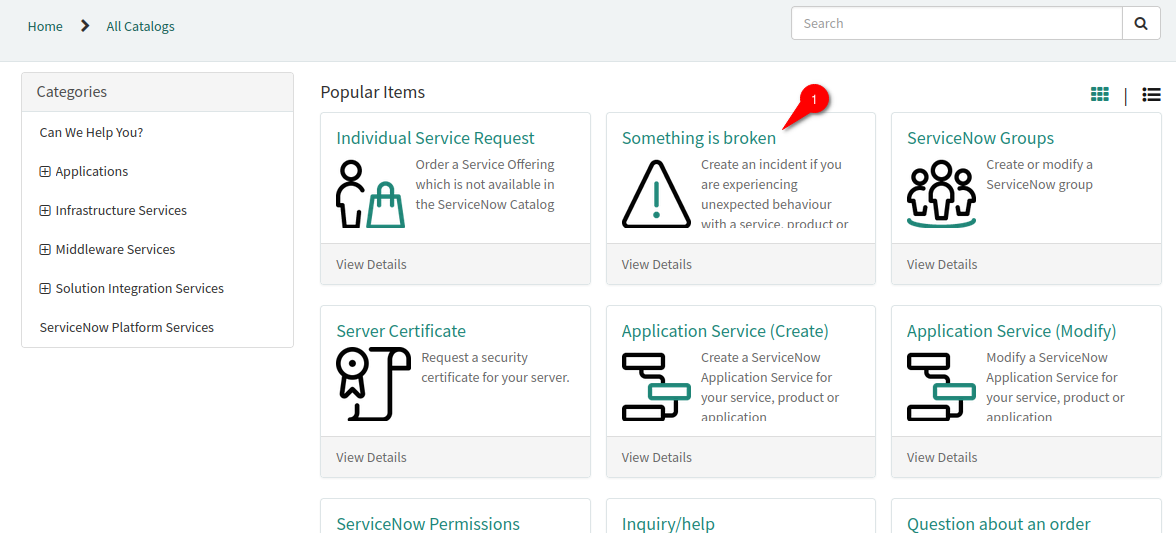
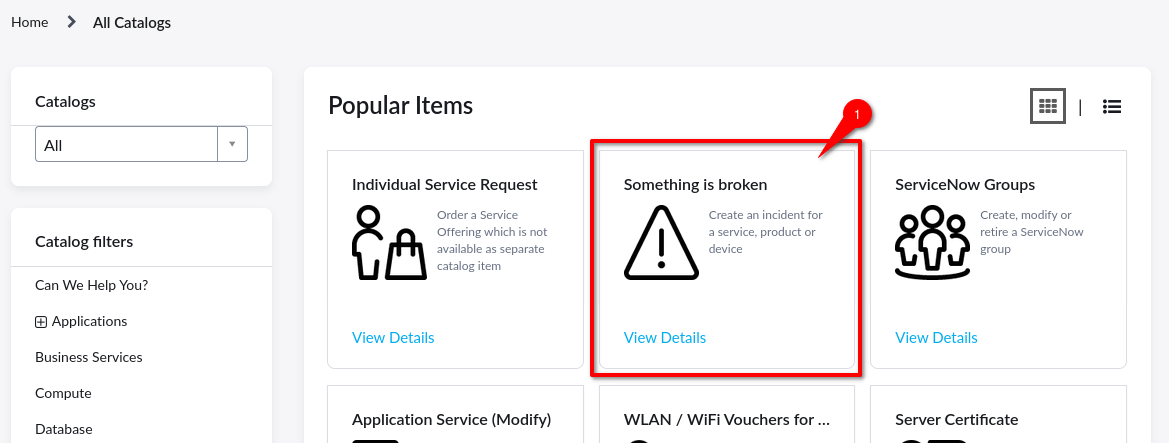
update incident instructions

diff --git a/pages/incident.md b/pages/incident.md
@@ -11,11 +11,7 @@ Having incident tickets is important as this is one of the main measures for the
 
 ## How to create
 
-Please open [Daimler Service Now - Service Portal https://daimler.service-now.com/sp](https://daimler.service-now.com/sp)
-
-### Go to **"Request Something"**
-
-![Service Portal](images/servicenow/snow_incident_01.png)
+Please open [Daimler Service Now - Service Portal https://daimler.service-now.com/esc?id=sc_cat_item](https://daimler.service-now.com/esc?id=sc_cat_item)
 
 ### Go to **"Something is broken"**
 
@@ -31,9 +27,22 @@ Select **Ubuntu Client Operations - Production**
 
 ![Service Portal](images/servicenow/snow_incident_03.png)
 
+Select the CI **Ubuntu Client Operations - Production**
+![Service Portal](images/servicenow/snow_incident_02-1.png)
+
 ### Put in all required data
 
 ![Service Portal](images/servicenow/snow_incident_04.png)
+
+On **Impact level & resolve ugency** (6) (7) select at least one as Medium or higher as we only have ServiceLevel Monitoring on Prio3 and higher incidents. And P4 are not measured. But please answer the urgency / impact correctly to prevent unnecessary interrupts of backoffice support units that are not necessary.
+
+Have a look at the incident priority matrix - to see which priority is assigned to your incident.
+
+| &nbsp;&nbsp;&nbsp;&nbsp;&nbsp;&nbsp;&nbsp;&nbsp;&nbsp;&nbsp;&nbsp;&nbsp;&nbsp;&nbsp; \ &nbsp;&nbsp;impact<br>urgency &nbsp; \  | 1-High  | 2-Medium  | 3-Low  |
+|--------------------------------- |-------- |---------- |------- |
+| 1-High                           | P1      | P2        | P2     |
+| 2-Medium                         | P2      | P3        | P3     |
+| 3-Low                            | P2      | P3        | P4     |
 
 ### Not sure what to choose?
 
